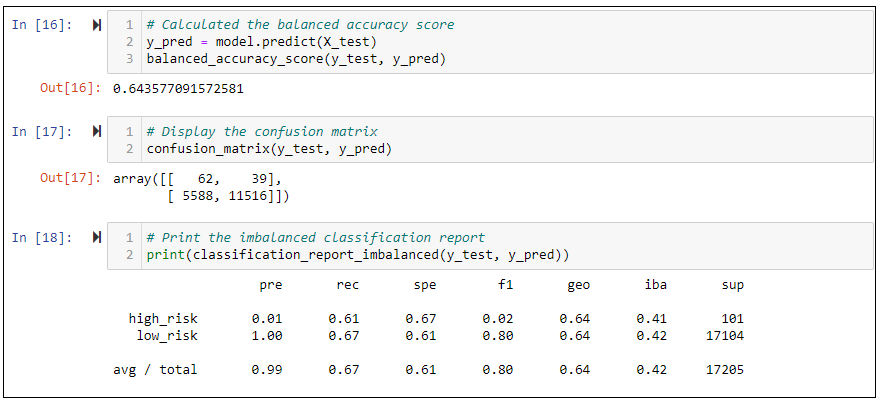
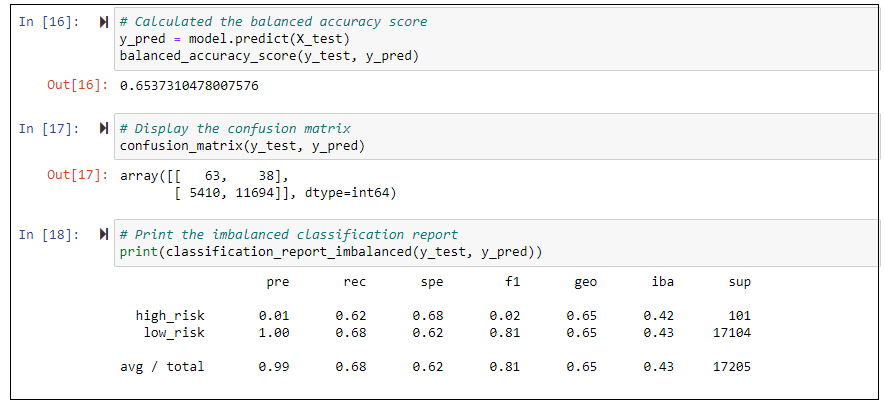
Module 17 Challenge - after Fixing issues with Anaconda

diff --git a/README.md b/README.md
@@ -20,8 +20,8 @@ In this analysis, I have to apply machine learning to solve a real-world challen
 ## Results
 
 1. **Naive Random Oversampling** (Image below)
-    * Precision: High Risk = 0.01; Low Risk = 1.00
-    * Recall: High Risk = 0.71; Low Risk = 0.60
+    * Precision: High Risk = 0.01; Low Risk = 1.00 
+    * Recall: High Risk = 0.74; Low Risk = 0.58
     * Balanced Accuracy Score = 0.66
     * Accuracy score is very less
 
@@ -29,8 +29,8 @@ In this analysis, I have to apply machine learning to solve a real-world challen
 
 2. **SMOTE Oversampling** (Image below)
     * Precision: High Risk = 0.01; Low Risk = 1.00
-    * Recall: High Risk = 0.61; Low Risk = 0.67
-    * Balanced Accuracy Score = 0.64
+    * Recall: High Risk = 0.62; Low Risk = 0.68
+    * Balanced Accuracy Score = 0.65
     * Accuracy score is again very less
 
     ![SMOTE](Resources/2_SMOTE.png)
@@ -76,4 +76,4 @@ In this analysis, I have to apply machine learning to solve a real-world challen
 * The Oversampling/Undersampling/Combination algorithms also fare poorely than the Ensemble algorithms in terms of recall scores for both high-risk and low-risk loans.
 
 ### Recommendation
-AdaBoost - it clearly stood out with 93% Accuracy score. It also has the highest high-risk and low-risk recall scores. Finally, another very important place where it does much better as compared to others is the high-risk precision score - in this score it is 3x that of the algorithm with the second highest precision score, and 9x that of the majority of the algorithms - this means it is 3-9 times more likely to spot high-risk loans, which if unspotted can have serious consequences for any lender. 
+**AdaBoost**: It clearly stood out with 93% Accuracy score. It also has the highest high-risk and low-risk recall scores. Finally, another very important place where it does much better as compared to others is the high-risk precision score - in this score it is 3x that of the algorithm with the second highest precision score, and 9x that of the majority of the algorithms - this means it is 3-9 times more likely to spot high-risk loans, which if unspotted can have serious consequences for any lender. 
